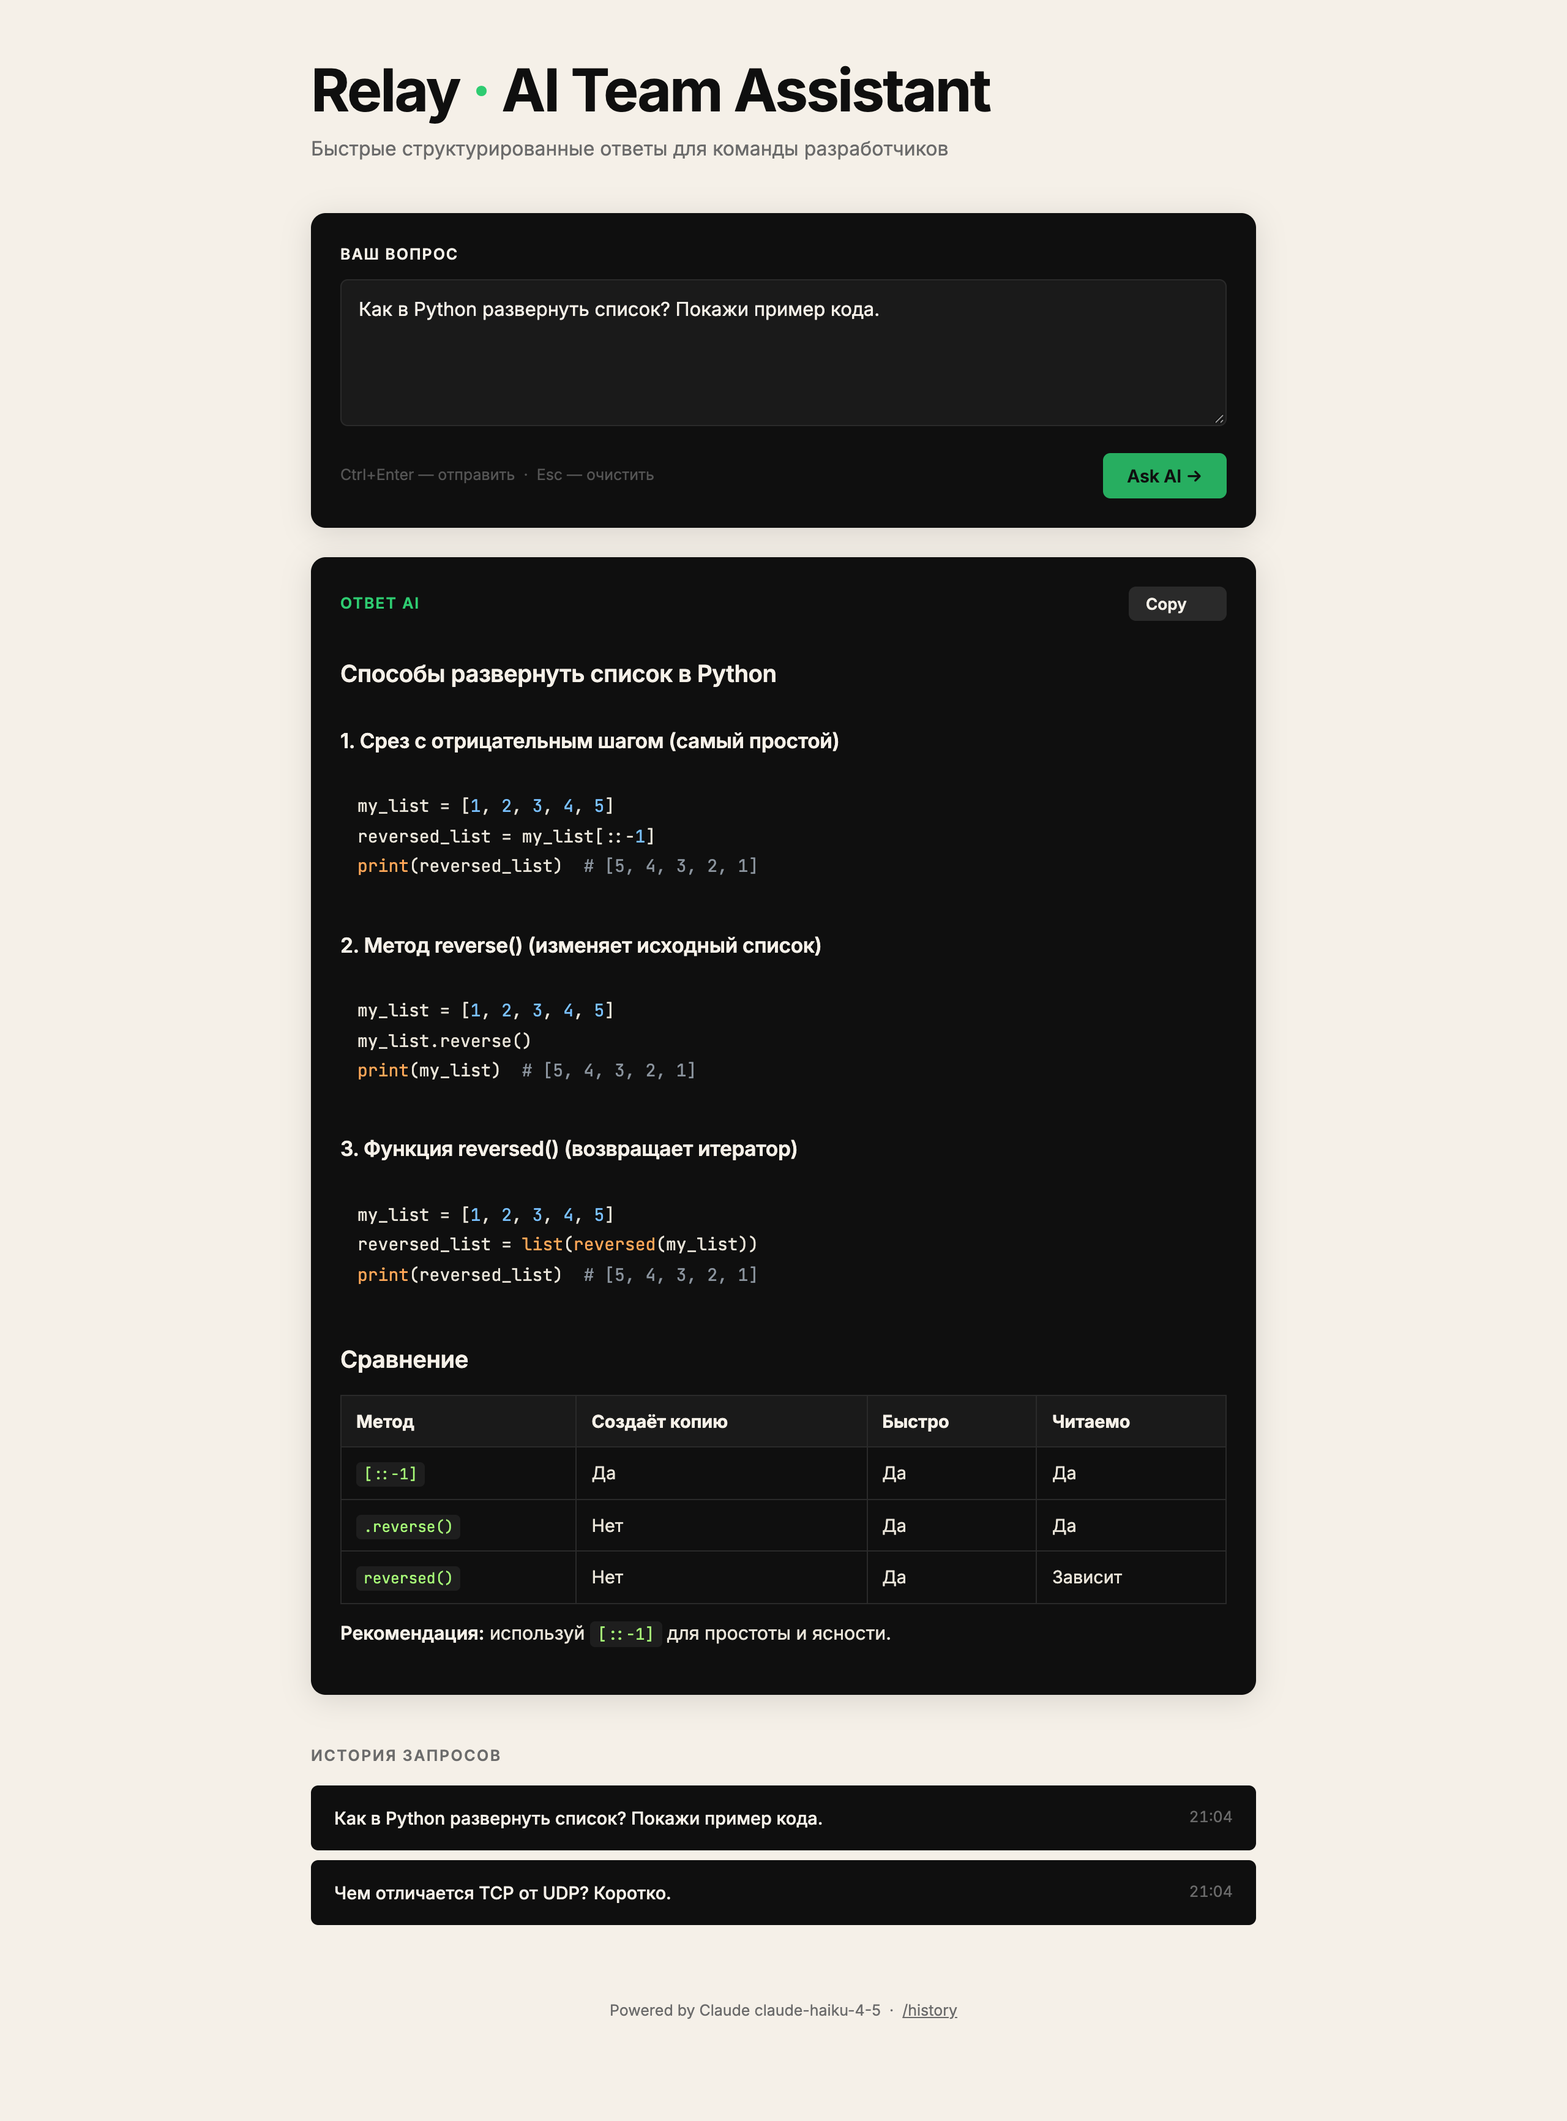
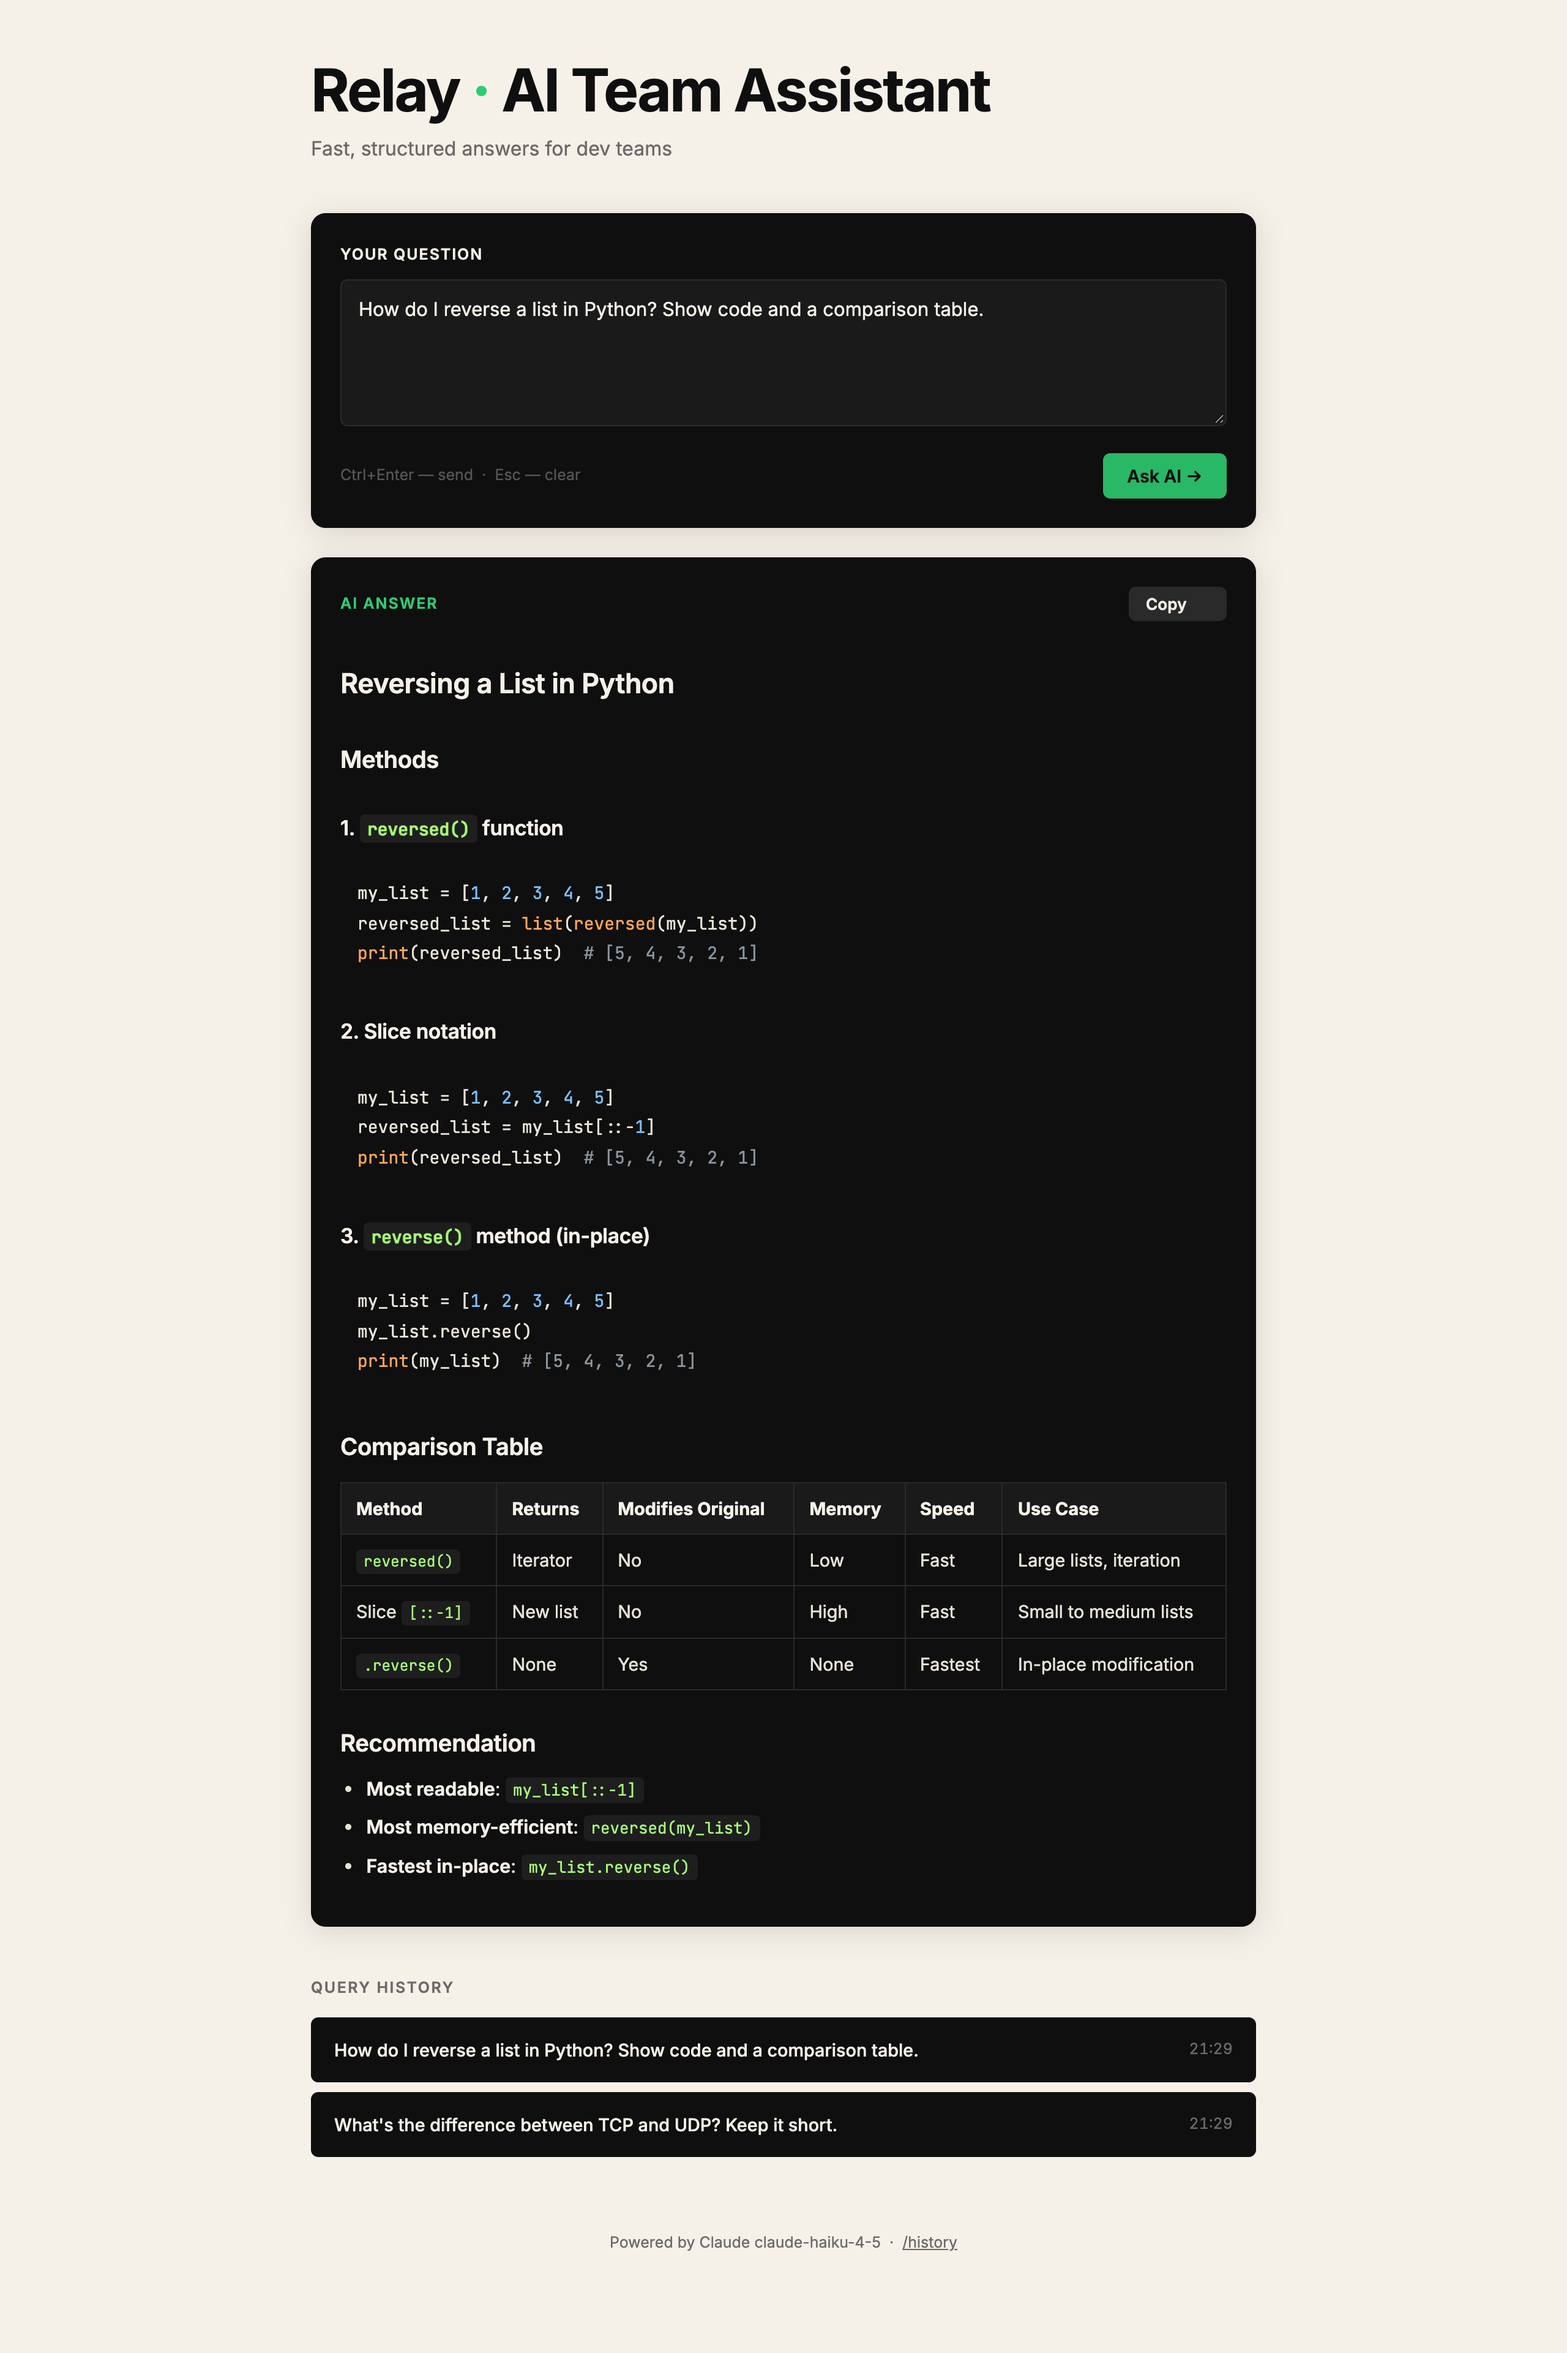
docs: switch UI to English and retake README screenshot

diff --git a/static/index.html b/static/index.html
@@ -1,5 +1,5 @@
 <!DOCTYPE html>
-<html lang="ru">
+<html lang="en">
 <head>
   <meta charset="UTF-8" />
   <meta name="viewport" content="width=device-width, initial-scale=1.0" />
@@ -354,7 +354,7 @@
     <div style="display: flex; align-items: center; justify-content: center; min-height: 100vh; font-family: sans-serif; color: #6B6B6B;">
       <div style="text-align: center;">
         <h1 style="color: #0F0F0F; margin-bottom: 8px;">Relay</h1>
-        <p>Инициализация приложения...</p>
+        <p>Loading…</p>
       </div>
     </div>
   </div>
@@ -435,7 +435,7 @@
       if (!ts) return "";
       const date = new Date(ts);
       if (isNaN(date.getTime())) return "";
-      return date.toLocaleTimeString("ru-RU", {
+      return date.toLocaleTimeString("en-GB", {
         hour: "2-digit",
         minute: "2-digit",
       });
@@ -443,20 +443,20 @@
 
     function errorMessage(err) {
       if (!err) return null;
-      if (err.type === "empty") return "Введите вопрос перед отправкой.";
-      if (err.type === "network") return "Нет соединения с сервером. Проверьте интернет.";
+      if (err.type === "empty") return "Enter a question before sending.";
+      if (err.type === "network") return "Can't reach the server. Check your connection.";
       // SSE stream errors carry a reason string
-      if (err.reason === "no_key") return "AI-сервис недоступен — API-ключ не настроен. Обратитесь к администратору.";
-      if (err.reason === "rate_limit") return "Слишком много запросов. Подождите немного и повторите.";
-      if (err.reason === "timeout") return "Запрос выполнялся слишком долго. Попробуйте ещё раз.";
-      if (err.reason === "invalid_output") return "Не удалось разобрать ответ AI. Попробуйте ещё раз.";
-      if (err.reason) return `Ошибка AI (${err.reason}). Попробуйте позже.`;
+      if (err.reason === "no_key") return "AI service unavailable — API key is not configured. Contact the administrator.";
+      if (err.reason === "rate_limit") return "Too many requests. Wait a moment and try again.";
+      if (err.reason === "timeout") return "The request took too long. Please try again.";
+      if (err.reason === "invalid_output") return "Couldn't parse the AI response. Please try again.";
+      if (err.reason) return `AI error (${err.reason}). Please try again later.`;
       // HTTP status errors (non-SSE path, fallback)
-      if (err.status === 429) return "Слишком много запросов. Подождите немного и повторите.";
-      if (err.status === 503) return "AI-сервис недоступен — API-ключ не настроен. Обратитесь к администратору.";
-      if (err.status === 504) return "Запрос выполнялся слишком долго. Попробуйте ещё раз.";
-      if (err.status === 422) return "Некорректный запрос. Попробуйте переформулировать вопрос.";
-      return `Ошибка сервера (${err.status ?? "неизвестно"}). Попробуйте позже.`;
+      if (err.status === 429) return "Too many requests. Wait a moment and try again.";
+      if (err.status === 503) return "AI service unavailable — API key is not configured. Contact the administrator.";
+      if (err.status === 504) return "The request took too long. Please try again.";
+      if (err.status === 422) return "Invalid request. Try rephrasing your question.";
+      return `Server error (${err.status ?? "unknown"}). Please try again later.`;
     }
 
     /* ── ErrorBanner ──────────────────────────────────────────────────── */
@@ -503,30 +503,30 @@
 
       return (
         <div className="form-card">
-          <label className="form-label" htmlFor="question">Ваш вопрос</label>
+          <label className="form-label" htmlFor="question">Your question</label>
           <textarea
             id="question"
             ref={textareaRef}
             className="form-textarea"
-            placeholder="Например: Как правильно настроить индексы в PostgreSQL для full-text search?"
+            placeholder="e.g. How should I set up PostgreSQL indexes for full-text search?"
             value={text}
             onChange={e => setText(e.target.value)}
             onKeyDown={handleKeyDown}
             disabled={loading}
-            aria-label="Введите вопрос"
+            aria-label="Enter your question"
           />
           <div className="form-footer">
-            <span className="form-hint">Ctrl+Enter — отправить &nbsp;·&nbsp; Esc — очистить</span>
+            <span className="form-hint">Ctrl+Enter — send &nbsp;·&nbsp; Esc — clear</span>
             <button
               className="btn btn-primary"
               onClick={handleSubmit}
               disabled={loading}
-              aria-label={loading ? "Загрузка..." : "Задать вопрос"}
+              aria-label={loading ? "Loading…" : "Ask a question"}
             >
               {loading ? (
                 <>
                   <span className="spinner" aria-hidden="true" />
-                  Думаю…
+                  Thinking…
                 </>
               ) : (
                 "Ask AI →"
@@ -555,13 +555,13 @@
         <div className="answer-card" aria-live="polite">
           <div className="answer-header">
             <span className="answer-label">
-              {isStreaming ? "Генерирую ответ…" : "Ответ AI"}
+              {isStreaming ? "Generating answer…" : "AI answer"}
             </span>
             {answer && (
               <button
                 className="btn btn-ghost copy-btn"
                 onClick={handleCopy}
-                aria-label="Скопировать ответ"
+                aria-label="Copy answer"
               >
                 {copied ? "✓ Copied!" : "Copy"}
               </button>
@@ -589,9 +589,9 @@
 
       return (
         <div className="history-section">
-          <p className="section-title">История запросов</p>
+          <p className="section-title">Query history</p>
           {items.length === 0 ? (
-            <p className="empty-state">Запросов пока нет — задайте первый вопрос.</p>
+            <p className="empty-state">No queries yet — ask your first question.</p>
           ) : (
             <div className="history-list">
               {items.map((item, idx) => (
@@ -602,7 +602,7 @@
                   tabIndex={0}
                   onClick={() => onSelect(item.question)}
                   onKeyDown={e => (e.key === "Enter" || e.key === " ") && onSelect(item.question)}
-                  aria-label={`Повторить вопрос: ${item.question}`}
+                  aria-label={`Repeat question: ${item.question}`}
                 >
                   <span className="history-q">{item.question}</span>
                   <span className="history-time">{item.time ? fmt(item.time) : ""}</span>
@@ -708,7 +708,7 @@
         <main className="page">
           <header className="header">
             <h1>Relay <span>·</span> AI Team Assistant</h1>
-            <p>Быстрые структурированные ответы для команды разработчиков</p>
+            <p>Fast, structured answers for dev teams</p>
           </header>
 
           <QuestionForm onSubmit={handleSubmit} loading={loading} />
